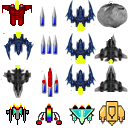
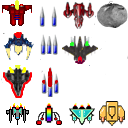
FINAL FINAL FINAL

diff --git a/src/ser/main/Game.java b/src/ser/main/Game.java
@@ -75,6 +75,7 @@ public class Game extends Canvas implements Runnable {
 
 	public static int HEALTH = 100 * 2;
 	private int oldHighScore;
+
 	public static enum STATE {
 		MENU, GAME, HELP, GAMEOVER, RESTART
 	};
@@ -83,7 +84,7 @@ public class Game extends Canvas implements Runnable {
 
 	public void init() {
 		requestFocus();
-		highScore = new HighscoreUtil();			
+		highScore = new HighscoreUtil();
 		oldHighScore = highScore.getScore();
 
 		BufferedImageLoader loader = new BufferedImageLoader();
@@ -107,7 +108,7 @@ public class Game extends Canvas implements Runnable {
 
 		ea = c.getEntityA();
 		eb = c.getEntityB();
-		
+
 		sound = new Sound();
 		c.createEnemy(enemy_count);
 		try {
@@ -242,12 +243,12 @@ public class Game extends Canvas implements Runnable {
 			g.drawRect(5, 5, 200, 20);
 
 			g.setColor(grey);
-			g.fillRect(WIDTH * 2 - 70, 5, 65, 20);
+			g.fillRect(WIDTH * 2 - 77, 5, 80, 20);
 
 			Font fnt0 = new Font("arial", Font.BOLD, 13);
 			g.setFont(fnt0);
 			g.setColor(Color.white);
-			g.drawString("Score : " + String.valueOf(getScore()), WIDTH * 2 - 70, 20);
+			g.drawString("Score : " + String.valueOf(getScore()), WIDTH * 2 - 75, 20);
 
 			fnt0 = new Font("Monaco", Font.BOLD, 20);
 			g.setFont(fnt0);
@@ -269,8 +270,9 @@ public class Game extends Canvas implements Runnable {
 			g.drawString("Down: 	Down Arrow", (Game.WIDTH >> 1) + 100, 200);
 			g.drawString("Left: 	Left Arrow", (Game.WIDTH >> 1) + 100, 250);
 			g.drawString("Right: 	Right Arrow", (Game.WIDTH >> 1) + 100, 300);
-			g.drawString("Shoot: 	Space", (Game.WIDTH >> 1) + 100, 350);
+			g.drawString("Shoot: 	Space", (Game.WIDTH / 2) + 50, 350);
 
+			g.drawString("Pause: 	ESC", (Game.WIDTH / 2) + 200, 350);
 			Rectangle backButton = new Rectangle(Game.WIDTH / 2 + 120, 380, 100, 50);
 			g.drawString("Go Back", backButton.x + 19, backButton.y + 30);
 			g2d.draw(backButton);
@@ -296,15 +298,14 @@ public class Game extends Canvas implements Runnable {
 			g.drawString("Your Score : " + score, restartGame.x - 50, restartGame.y + 100);
 			fnt1 = new Font("arial", Font.BOLD, 50);
 			g.setFont(fnt1);
-			g.drawString("High Score : " + highScore.getScore(), restartGame.x - 100, restartGame.y + 150);
+			g.drawString("High Score : " + highScore.getScore(), restartGame.x - 120, restartGame.y + 150);
 
 		}
 		if (HEALTH <= 0) {
 			State = STATE.GAMEOVER;
 			HEALTH = 200;
-			if(oldHighScore<score)
-			{
-			highScore.setScore(score);
+			if (oldHighScore < score) {
+				highScore.setScore(score);
 			}
 		}
 

diff --git a/src/ser/main/Texture.java b/src/ser/main/Texture.java
@@ -6,7 +6,7 @@ public class Texture {
 
 	public BufferedImage mainPlayer;
 	public BufferedImage[] missile = new BufferedImage[3];
-	public BufferedImage[] enemy = new BufferedImage[3];
+	public BufferedImage[] enemy = new BufferedImage[5];
 	public BufferedImage[] asteroid = new BufferedImage[3];
 	public BufferedImage[] players = new BufferedImage[4];
 
@@ -28,6 +28,8 @@ public class Texture {
 		enemy[0] = ss.grabImage(1, 1, 32, 32);
 		enemy[1] = ss.grabImage(1, 2, 32, 32);
 		enemy[2] = ss.grabImage(1, 3, 32, 32);
+		enemy[3] = ss.grabImage(3, 1, 32, 32);
+		enemy[4] = ss.grabImage(3, 2, 32, 32);
 		players[0] = ss.grabImage(1, 4, 32, 32);
 		players[1] = ss.grabImage(2, 4, 32, 32);
 		players[2] = ss.grabImage(3, 4, 32, 32);

diff --git a/src/ser/main/Enemy.java b/src/ser/main/Enemy.java
@@ -55,9 +55,12 @@ public class Enemy extends GameObject implements EntityB {
 			g.drawImage(tex.enemy[0], (int) x, (int) y, null);
 		} else if (level > 3 && level <= 6) {
 			g.drawImage(tex.enemy[1], (int) x, (int) y, null);
-		} else {
+		} else if (level > 6 && level <= 9) {
 			g.drawImage(tex.enemy[2], (int) x, (int) y, null);
-		}
+		} else if (level > 9 && level <= 11) {
+			g.drawImage(tex.enemy[3], (int) x, (int) y, null);
+		} else
+			g.drawImage(tex.enemy[4], (int) x, (int) y, null);
 	}
 
 	public Rectangle getBounds() {

diff --git a/src/ser/main/Player.java b/src/ser/main/Player.java
@@ -45,7 +45,7 @@ public class Player extends GameObject implements EntityA {
 
 			if (Physics.Collision(this, tempEnt)) {
 				controller.removeEntity(tempEnt);
-				Game.HEALTH -= 25;
+				Game.HEALTH -= 20;
 				game.setEnemy_killed(game.getEnemy_killed() + 1);
 			}
 
